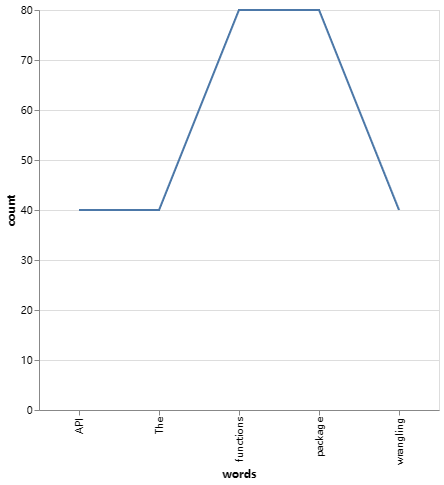
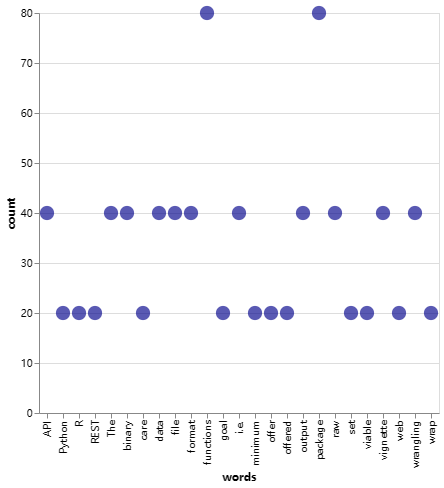
code update

diff --git a/usage/chart.html b/usage/chart.html
@@ -7,11 +7,11 @@
   <script src="https://cdn.jsdelivr.net/npm/vega-embed@6"></script>
 </head>
 <body>
-<div class="vega-visualization" id="vega-visualization-264a64c324ac4b8ca30b70e691affc7e"></div>
+<div class="vega-visualization" id="vega-visualization-ead8b416ad4c42fe82cad48a51641357"></div>
 <script type="text/javascript">
-  const spec = {"config": {"view": {"continuousWidth": 400, "continuousHeight": 300}}, "data": {"name": "data-767aa9df5052846c8db4648991a91112"}, "mark": "line", "encoding": {"x": {"field": "words", "type": "nominal"}, "y": {"field": "count", "type": "quantitative"}}, "height": 400, "width": 400, "$schema": "https://vega.github.io/schema/vega-lite/v4.17.0.json", "datasets": {"data-767aa9df5052846c8db4648991a91112": [{"words": "package", "count": 80}, {"words": "functions", "count": 80}, {"words": "The", "count": 40}, {"words": "API", "count": 40}, {"words": "wrangling", "count": 40}]}};
+  const spec = {"config": {"view": {"continuousWidth": 400, "continuousHeight": 300}}, "data": {"name": "data-1566112d111958fe8872846aa1a5d716"}, "mark": {"type": "circle", "opacity": 0.65, "size": 200}, "encoding": {"color": {"value": "darkblue"}, "x": {"field": "words", "type": "nominal"}, "y": {"field": "count", "type": "quantitative"}}, "height": 400, "width": 400, "$schema": "https://vega.github.io/schema/vega-lite/v4.17.0.json", "datasets": {"data-1566112d111958fe8872846aa1a5d716": [{"words": "package", "count": 80}, {"words": "functions", "count": 80}, {"words": "The", "count": 40}, {"words": "API", "count": 40}, {"words": "wrangling", "count": 40}, {"words": "output", "count": 40}, {"words": "data", "count": 40}, {"words": "format", "count": 40}, {"words": "raw", "count": 40}, {"words": "binary", "count": 40}, {"words": "file", "count": 40}, {"words": "i.e.", "count": 40}, {"words": "vignette", "count": 40}, {"words": "goal", "count": 20}, {"words": "wrap", "count": 20}, {"words": "set", "count": 20}, {"words": "R", "count": 20}, {"words": "Python", "count": 20}, {"words": "web", "count": 20}, {"words": "REST", "count": 20}, {"words": "offer", "count": 20}, {"words": "offered", "count": 20}, {"words": "care", "count": 20}, {"words": "minimum", "count": 20}, {"words": "viable", "count": 20}]}};
   const embedOpt = {};
-  vegaEmbed('#vega-visualization-264a64c324ac4b8ca30b70e691affc7e', spec, embedOpt).catch(console.error);
+  vegaEmbed('#vega-visualization-ead8b416ad4c42fe82cad48a51641357', spec, embedOpt).catch(console.error);
 </script>
 </body>
 </html>

diff --git a/NLPbrl/NLP_.py b/NLPbrl/NLP_.py
@@ -117,15 +117,18 @@ class NLP():
                 temp.append(string)
         return temp
 
-    #Word frequency visualization, save word cloud chart and line chart. Can choose how many words to be show.
-    def word_viz(self, text, file_loc, top_num, stop_word='default', cloud_set=WordCloud(font_path='NLPbrl/pacakge_data/STKAITI.TTF')):
+    #Word frequency visualization, save word cloud chart and circle chart. Can choose how many words to be show.
+    def word_viz(self, text, file_loc, top_num, stop_word='default', cloud_set=WordCloud(font_path='NLPbrl/pacakge_data/STKAITI.TTF', collocations=False)):
         washed_token = self.__word_wash(text, stop_word)
         
         if washed_token == False:
             return False
         
+        if top_num >= len(washed_token):
+            top_num = len(washed_token) - 1
+
         try:
-            cloud_set.generate(' '.join(washed_token))
+            cloud_set.generate(' '.join(washed_token[:top_num]))
         except:
             print("Error with word cloud.")
             return False
@@ -144,11 +147,9 @@ class NLP():
             count.append(i[1])
         df = pd.DataFrame({'words': words, 'count': count})
         
-        if top_num >= len(df):
-            top_num = len(df) - 1
             
-        chart = (alt.Chart(df[:top_num]).mark_line().encode(
-            x='words', y='count').properties(height=400, width=400))
+        chart = (alt.Chart(df[:top_num]).mark_circle(size = 200, opacity = 0.65).encode(
+            x='words', y='count', color = alt.value('darkblue')).properties(height=400, width=400))
         try:
             save(chart, "chart.html")
         except:
@@ -464,4 +465,7 @@ class NLP():
             print('The k exceed the number of categories')
             return False
         else:
-            return classify[:top_k]
+            labels = []
+            for i in range(0,top_k):
+                labels.append(classify[i]['label'])
+            return labels

diff --git a/README.md b/README.md
@@ -1,5 +1,5 @@
 # NLPbrl Project        [![KingOfOrikid](https://circleci.com/gh/KingOfOrikid/proj_NLPbrl_DATA534.svg?style=shield)](https://app.circleci.com/pipelines/github/KingOfOrikid/proj_NLPbrl_DATA534?branch=main)
-**Pypi**: **[https://pypi.org/project/NLPbrl/0.1/](https://pypi.org/project/NLPbrl/0.1/)**     
+**Pypi**: **[https://pypi.org/project/NLPbrl/](https://pypi.org/project/NLPbrl/)**     
 **Package demo video**: **link**            
             
 ## Group information          
@@ -79,7 +79,7 @@ cate_text = "Sony Pictures is planning to shoot a good portion of the new \"Ghos
 A simple example of using the cal_frequency() function in the package to obtain word frequency statistics for each word in the input text. Word frequency statistics can summarize the words that appear frequently in the document and help to understand the text quickly, and they are also the basis for many NLP analyses and processes.
 ![cal_frequency](imgs/cal_frequency.png)   
 
-A simple example of using the word_viz() function in the package to visualisation of the word frequency statistics of the input text, including the visualisation of word clouds and word frequency line graphs, and the ability to select the number of words to be visualised.
+A simple example of using the word_viz() function in the package to visualisation of the word frequency statistics of the input text, including the visualisation of word clouds and word frequency circle graphs, and the ability to select the number of words to be visualised.
 ![word_viz_code](imgs/word_viz_code.png)   
 ![word_viz_cloud](imgs/word_viz_cloud.png)    
 ![word_viz_chart](imgs/word_viz_chart.png)    
@@ -97,7 +97,7 @@ A simple example of using the relation_viz() function in the package to obtain a
 ![relation_viz_code](imgs/relation_viz_code.png)    
 ![relation_viz_graph](imgs/relation_viz_graph.png)    
 
-A simple example of using the c() function in the package to obtain the k classifications to which the text is most likely to belong, where the classifications are Arts & Entertainment, Travel, Business, Automotive, Education, Careers, Food & Drink and so on.
+A simple example of using the cal_classification() function in the package to obtain the k classifications to which the text is most likely to belong, where the classifications are Arts & Entertainment, Travel, Business, Automotive, Education, Careers, Food & Drink and so on.
 ![cal_classification](imgs/cal_classification.png)   
 
 ## How to Contribute
